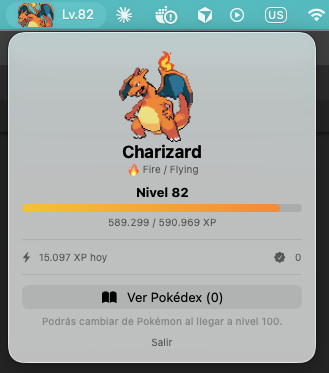
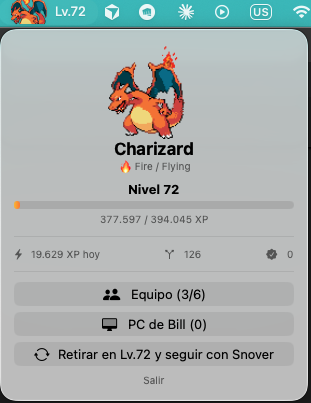
Show the team and Bill's PC in the README screenshot (#6)
The panel shot still had the pre-team layout, with a "Ver Pokedex" button
that no longer exists. The new one is the same Charizard, now at level 72
after a stint in the PC, with the team at three of six and the retirement
button naming who takes over from the bench.

Rendered at its native 311px rather than the previous 330: the panel grew
taller with the extra buttons, and upscaling only softened the pixel art.

Claude-Session: https://claude.ai/code/session_01BvAmTZQt9MDrhd8W5gtHv9

diff --git a/README.md b/README.md
@@ -6,7 +6,7 @@ earn XP. Retire it whenever you like and it goes into Bill's PC at the level it
 reached, or push it to 100 for the badge — the pace of the collection is yours.
 Nothing stored there is final: pull one back out and keep raising it.
 
-<img src="docs/img/panel.png" alt="Charizard at level 82 in the macOS menu bar, with the panel open showing its type, XP bar and Pokedex button" width="330">
+<img src="docs/img/panel.png" alt="Charizard at level 72 in the macOS menu bar, with the panel open showing its type, XP bar, a team of three and Bill's PC" width="311">
 
 ```
 statusline  🌿 main  |  🤖 Opus 5 [high]  |  🔥 Charizard Lv.82 [████████░░] 84%
